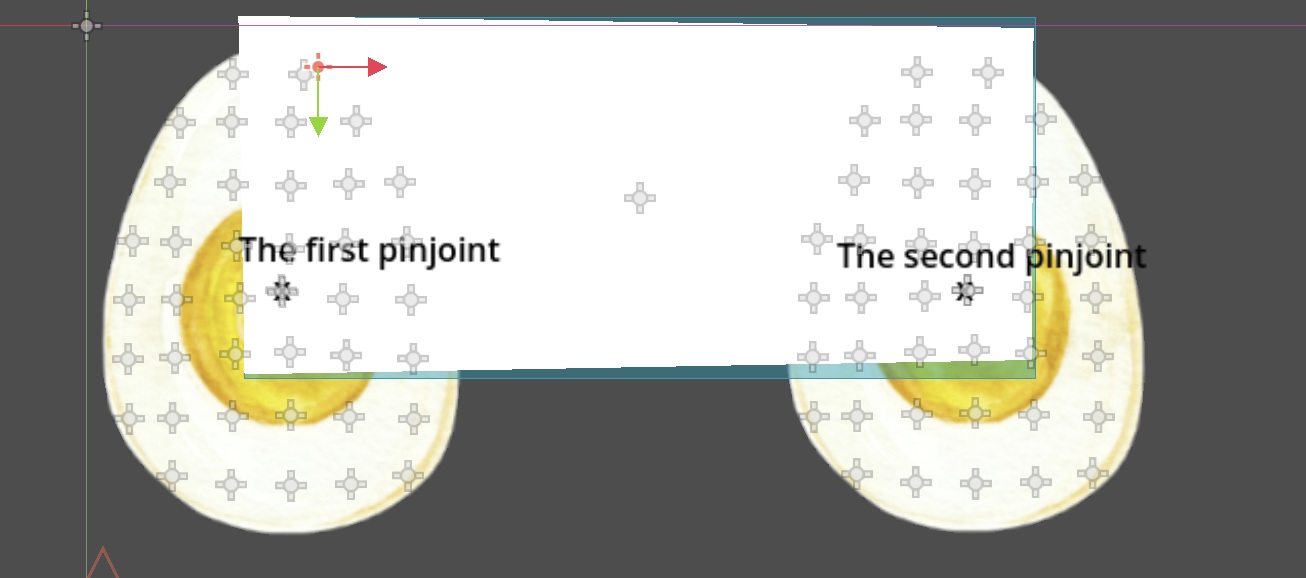
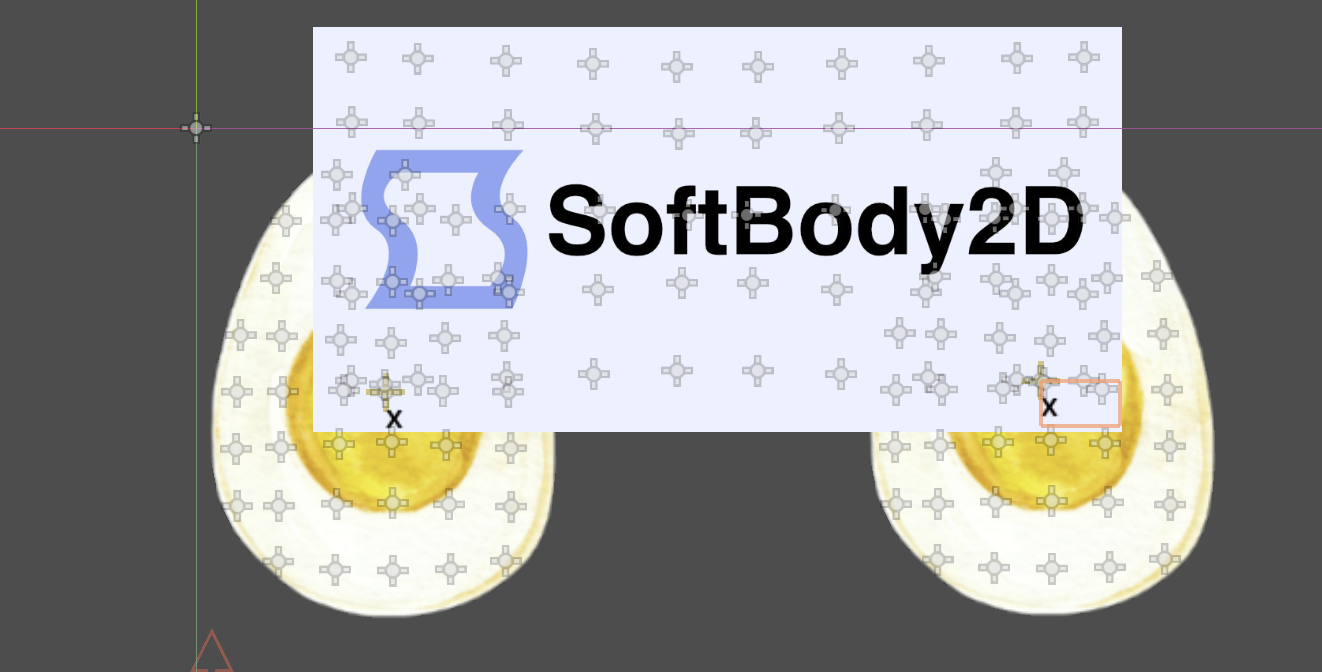
update car demo

diff --git a/docs/tutorial-basics/make-a-car.md b/docs/tutorial-basics/make-a-car.md
@@ -4,9 +4,9 @@ sidebar_position: 3
 
 # Move a Softbody Car
 
-A Car Softbody is formed of 2 Softbodies that act as the wheels, and a Rigidbody that connects the two with 2 Pin Joints with Motor. This tutorial is also available in the GitHub repo as a sample [samples/softbody2d/car-demo](https://github.com/appsinacup/godot-softbody2d/tree/main/samples/softbody2d/car-demo).
+A Car Softbody is formed of 2 Softbodies that act as the wheels, and a Softbody for the car frame that connects the two with 2 Pin Joints with Motor. This tutorial is also available in the GitHub repo as a sample [samples/softbody2d/car-demo](https://github.com/appsinacup/godot-softbody2d/tree/main/samples/softbody2d/car-demo).
 
-## Create two new SoftBody2D nodes
+## Create two new SoftBody2D wheel nodes
 
 Similar as previous tutorial, create two Softbody and add the texture `samples/softbody2d/Boiled_Egg_Half.png` to them. Move them a bit apart. You should see in the **2D scene view** the following:
 
@@ -18,33 +18,37 @@ Name them **Wheel 1** and **Wheel 2**.
 
 Create a **RigidBody2D** and add as child a **CollisionShape2D** with **Shape** set to **WorldBoundaryShape2D** and move it below the Softbodies.
 
-## Create a RigidBody2D node
+## Create a SoftBody2D frame node
 
-Create a **RigidBody2D** node with:
-- a **CollisionShape2D** with a **RectangleShape2D**
+Create a Softbody and add the texture `samples/softbody2d/softbody2d_banner.jpg` to them. Rename it to **Frame**. Scale it to **0.4** for both X and Y at the **Transform** property. Move it a bit on top of the two wheels. You should see in the **2D scene view** the following:
 
 ![rectangle](/img/make-a-car/rectangle.png)
 
-- two **PinJoint2D** nodes placed on the center of the wheels
-- a **Polygon2D** node with the points drawn along the contour of the rectangle shape.
+## Create the PinJoint2D nodes
+
+Create two **PinJoint2D** nodes placed on the center of the wheels.
 
 You should now have the following car:
 
 ![car](/img/make-a-car/car.png)
 
-Now connect the pinjoints **Node A** to the big rectangle Rigidbody, and the **Node B** to the corresponding Rigidbody from each Softbody:
+Now connect the pinjoints **Node B** to the Rigidbody closest on the **Frame** Softbody, and the **Node A** to the corresponding Rigidbody from each **Wheel** Softbody. Eg. for me the following were set:
 
-- **Node B** for first pinjoint: `../../Wheel 1/Bone-15`
-- **Node B** for second pinjoint: `../../Wheel 2/Bone-15`
 
-Next, go to the big rectangle Rigidbody and set it's `z_index` to -1 so it's behind the wheels:
+- **Node A** for first pinjoint: `../../Wheel 1/Bone-15`
+- **Node B** for first pinjoint: `../Frame/Bone4`
+
+- **Node A** for second pinjoint: `../../Wheel 2/Bone-15`
+- **Node B** for first pinjoint: `../Frame/Bone44`
+
+Next, go to the **Frame** Softbody and set it's `z_index` to -1 so it's behind the wheels:
 
 ![behind](/img/make-a-car/behind.png)
 
-Next, add the following **Script** on the big rectangle Rigidbody:
+Next, add the following **Script** on the root node:
 
 ```js
-extends RigidBody2D
+extends Node2D
 
 @onready var pin1 : PinJoint2D = $PinJoint2D
 @onready var pin2 : PinJoint2D = $PinJoint2D2
@@ -53,15 +57,15 @@ const SPEED = 6000
 
 # Called every frame. 'delta' is the elapsed time since the previous frame.
 func _physics_process(delta: float) -> void:
-    var direction := Input.get_axis("ui_left", "ui_right")
-    if direction:
-        pin1.motor_enabled = true
-        pin2.motor_enabled = true
-        pin1.motor_target_velocity = -direction * SPEED
-        pin2.motor_target_velocity = -direction * SPEED
-    else:
-        pin1.motor_enabled = false
-        pin2.motor_enabled = false
+	var direction := Input.get_axis("ui_left", "ui_right")
+	if direction:
+		pin1.motor_enabled = true
+		pin2.motor_enabled = true
+		pin1.motor_target_velocity = direction * SPEED
+		pin2.motor_target_velocity = direction * SPEED
+	else:
+		pin1.motor_enabled = false
+		pin2.motor_enabled = false
 
 ```
 
